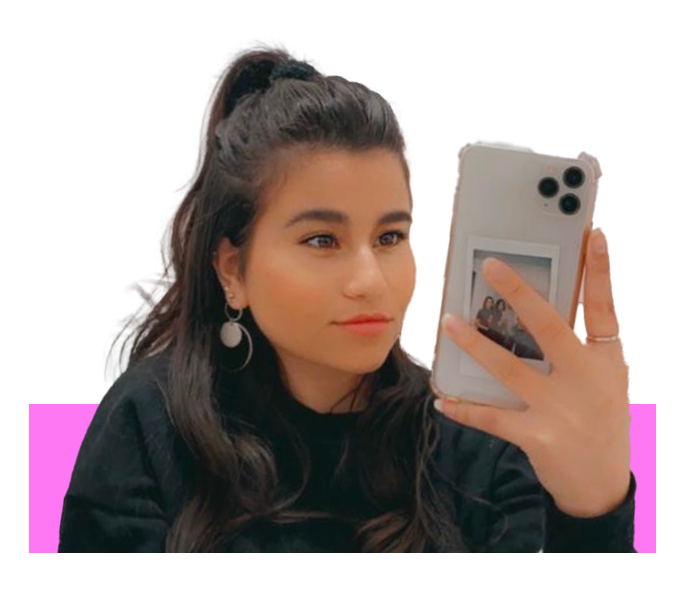
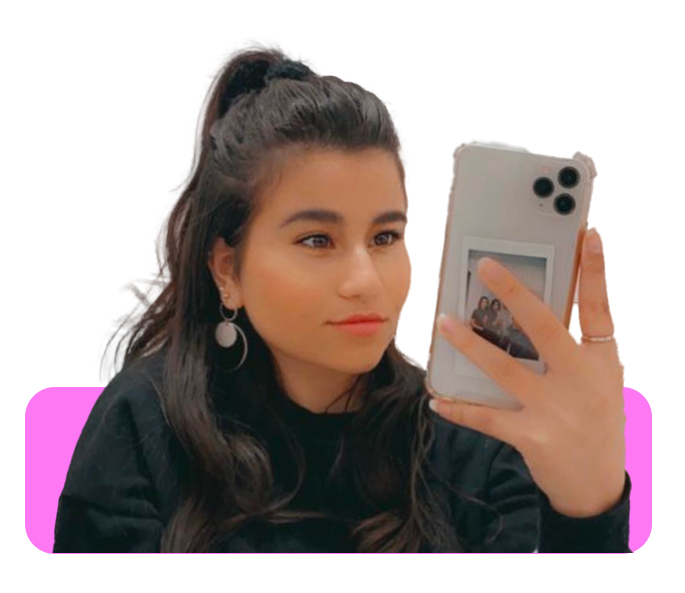
images

diff --git a/styles/style.css b/styles/style.css
@@ -1,7 +1,7 @@
 /* * {
   box-sizing:border-box;
 } */
-
+@import url('https://fonts.googleapis.com/css2?family=Kalam:wght@700&family=Libre+Barcode+39+Extended+Text&display=swap');
 html {
   height:100vh;
 }
@@ -22,6 +22,7 @@ main {
   grid-template-columns: 1fr .25fr 1fr;
   grid-gap: .5em;
   background: navajowhite;
+  border-radius: 1em;
   box-shadow: 0 0 20px 20px rgba(0, 0, 0, 0.1);
  
 }
@@ -29,13 +30,19 @@ img{
   width: 100%;
 }
 h1 {
+  font-family: 'Kalam', cursive;
   margin:2rem 0 1rem;
   padding:0 1em;
   color: rgb(221, 0, 255);
+  font-size: 35px;
+}
+h2{
+  font-family: 'Kalam', cursive;
 }
 .mijinfo > li{
   list-style: none;
   padding: 1em 0;
+
 }
 .mijinfo > li::before{
  content: "\f04b";
@@ -66,6 +73,7 @@ h1 {
   margin: 1em;
   padding: 1em;
   border: 1em solid violet;
+  border-radius: 1em;
 
 }
 .pijl2 {
@@ -100,6 +108,7 @@ h1 {
   padding: .3em;
   color: navajowhite;
   font-size: 24px;
+  border-radius: 1em;
 }
 .socialbutton >ul > li >a:hover {
   background-color: cadetblue;
@@ -198,3 +207,7 @@ h1 {
   30% {-webkit-transform: scale(0.5); opacity: 1;}
   100% {opacity: 0; -webkit-transform: scale(1.5);}
 }
+/* @media screen and (max-width 768px){
+
+
+} */

diff --git a/index.html b/index.html
@@ -18,14 +18,14 @@
 <section>
   <div class="overmij">
     <h2>Skills</h2>
-    <p>It has survived not only five centuries, but also the leap into electronic typesetting, remaining essentially unchanged. </p>
+    <p>HTML, CSS, Wordpress, PHP, Javascript Ik vind ze persoonlijk allemaal leuk en interessant, alleen mijn favoriete is PHP, want bij PHP leer je wat allemaal achter de scherm gebeurt en dat vind ik heel intrigerend. </p>
   </div>
   <div class="divpijl2"><i class="fa fa-solid fa-down-long pijl2"></i>
     
   </div>
 
     <div class="overmij">
-      <h2>Skills</h2>
+      <h2>Nu</h2>
       <p>It has survived not only five centuries, but also the leap into electronic typesetting, remaining essentially unchanged. </p>
     </div>
 
@@ -46,7 +46,7 @@
   </ul>
   <div class="socialbutton">
     <ul>
-      <li><a href="#"><i class="fa fa-facebook-f"></i></a></li>
+      <li><a href="https://www.facebook.com/"><i class="fa fa-facebook-f"></i></a></li>
       <li><a href="#"><i class="fa fa-linkedin"></i></a></li>
       <li><a href="#"><i class="fa fa-instagram"></i></a></li>
       <li><a href="#"><i class="fa fa-pinterest-p"></i></a></li> 
